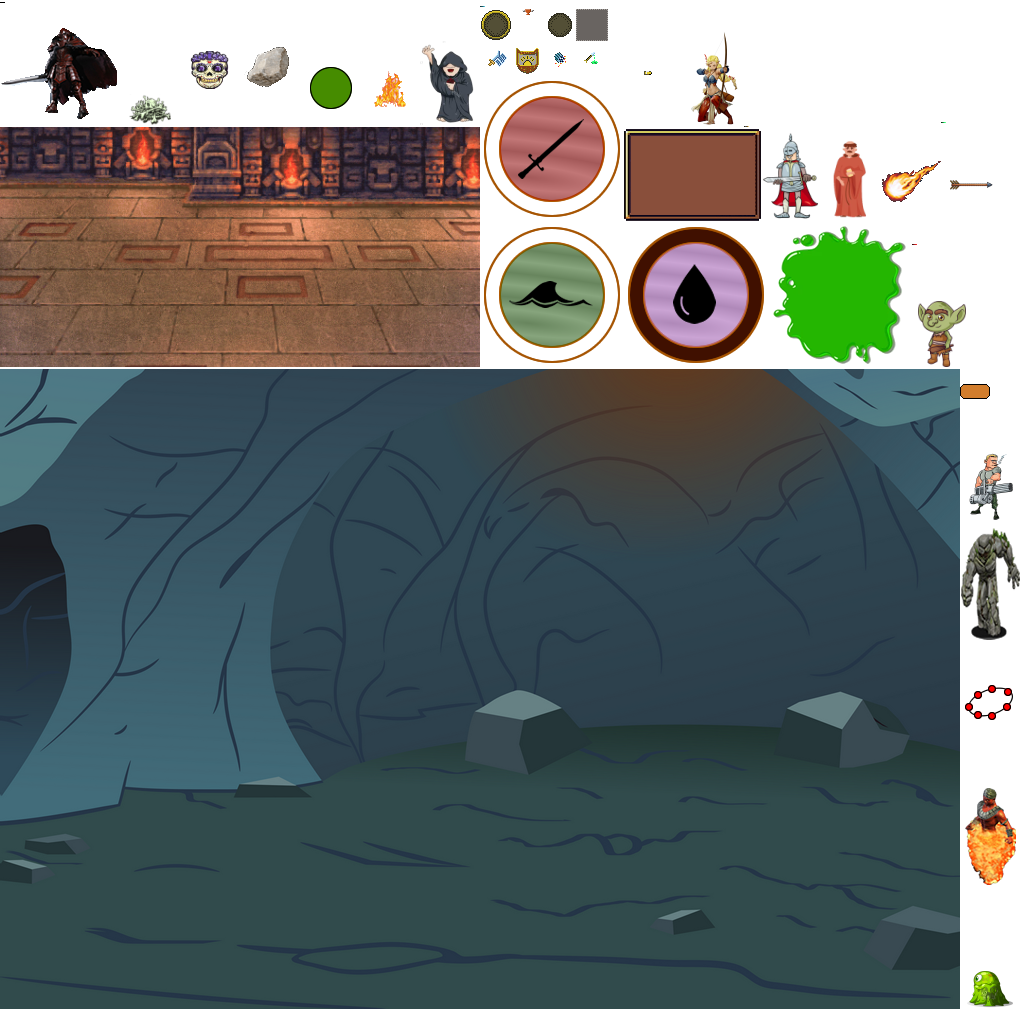
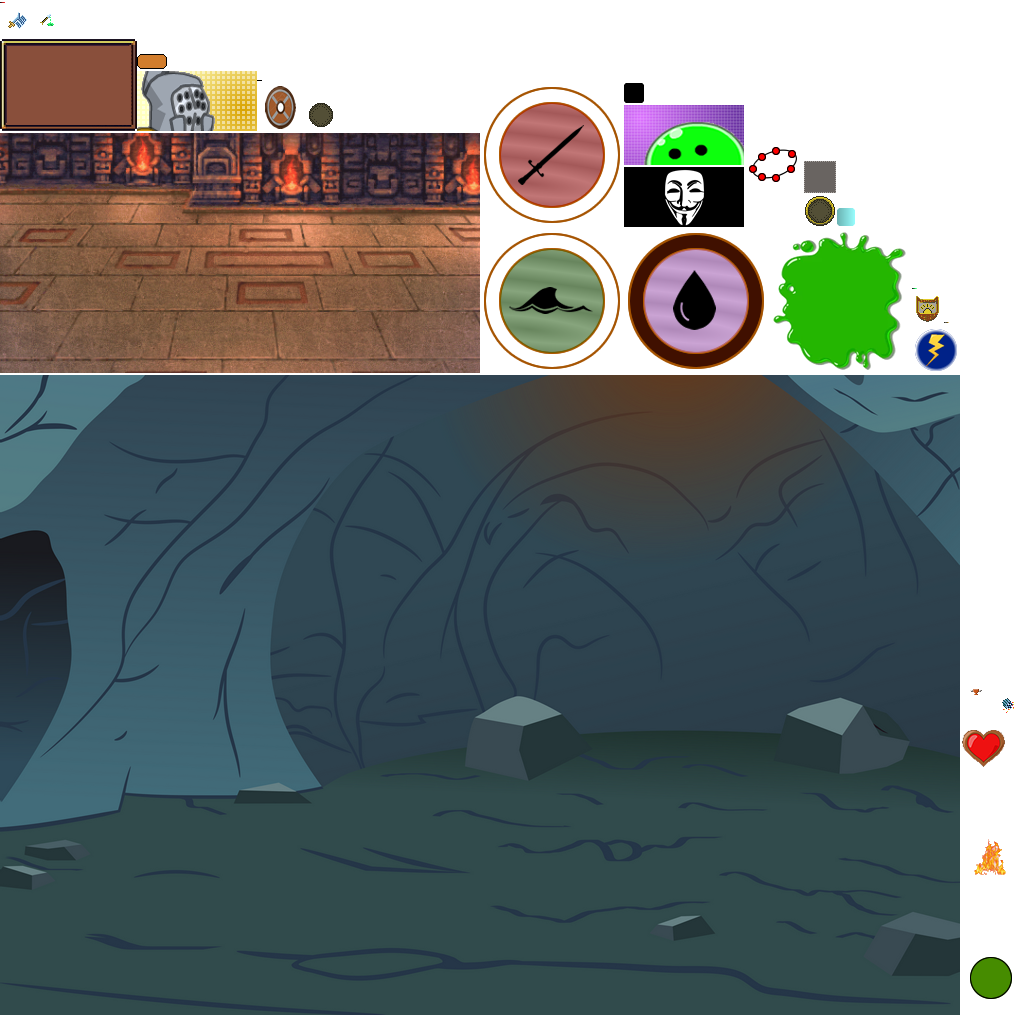
reconfigure prepare dialog

diff --git a/android/core/src/com/game7th/swipe/campaign/prepare/BattlePrepareDialog.kt b/android/core/src/com/game7th/swipe/campaign/prepare/BattlePrepareDialog.kt
@@ -96,7 +96,7 @@ class BattlePrepareDialog(
 
     init {
         w = scale * 336
-        h = scale * 177
+        h = scale * 330f
         width = w
         height = h
         x = (game.width - this.width) / 2f
@@ -121,10 +121,10 @@ class BattlePrepareDialog(
 
         labelDifficulty = Label("Chose difficulty:", Label.LabelStyle(context.font, Color.WHITE)).apply {
             x = 94 * game.scale
-            y = h - 22 * game.scale
+            y = 300f * game.scale
             width = 71 * game.scale
-            height = 12 * game.scale
-            setFontScale(12 * game.scale / 15f)
+            height = 30 * game.scale
+            setFontScale(1f)
         }
         labelDifficulty.touchable = Touchable.disabled
         addActor(labelDifficulty)
@@ -135,7 +135,7 @@ class BattlePrepareDialog(
                 width = 24 * game.scale
                 height = 24 * game.scale
                 x = (168 + i * 26) * game.scale
-                y = h - 28 * game.scale
+                y = 303f * game.scale
             }
             starImages.addActor(image)
             image.onClick {
@@ -151,11 +151,11 @@ class BattlePrepareDialog(
                 null,
                 context.font
         )).apply {
-            label.setFontScale(12f * game.scale / 15)
+            label.setFontScale(1f)
             x = 240 * game.scale
-            y = h - game.scale * 173
+            y = 5f * game.scale
             width = game.scale * 90
-            height = game.scale * 14
+            height = 20 * game.scale
         }
         addActor(buttonStart)
         buttonStart.onClick {
@@ -164,13 +164,13 @@ class BattlePrepareDialog(
 
         personageSquadBrowser = SquadBrowserActor(context, personageAdapter).apply {
             x = 6 * context.scale
-            y = h - 153 * context.scale
+            y = 30 * context.scale
         }
         addActor(personageSquadBrowser)
 
         npcSquadBrowser = SquadBrowserActor(context, npcAdapter).apply {
             x = 170 * context.scale
-            y = h - 153 * context.scale
+            y = 30 * context.scale
         }
         addActor(npcSquadBrowser)
     }

diff --git a/android/core/src/com/game7th/swipe/campaign/prepare/SquadBrowserActor.kt b/android/core/src/com/game7th/swipe/campaign/prepare/SquadBrowserActor.kt
@@ -28,8 +28,8 @@ class SquadBrowserActor(
 
     init {
         background = Image(context.uiAtlas.createPatch("panel_blue")).apply {
-            width = 160 * context.scale
-            height = 105 * context.scale
+            width = 168f * context.scale
+            height = 270f * context.scale
         }
         background.touchable = Touchable.disabled
         addActorAt(0, background)
@@ -37,14 +37,13 @@ class SquadBrowserActor(
         btnPrev = Button(Button.ButtonStyle(TextureRegionDrawable(context.uiAtlas.findRegion("arrowBlue_left")), null, null)).apply {
             width = context.scale * 24
             height = context.scale * 24
-            x = 2 * context.scale
-            y = 40 * context.scale
+            y = 113f * context.scale
         }
         btnNext = Button(Button.ButtonStyle(TextureRegionDrawable(context.uiAtlas.findRegion("arrowBlue_right")), null, null)).apply {
             width = context.scale * 24
             height = context.scale * 24
-            x = 134 * context.scale
-            y = 40 * context.scale
+            x = 144f * context.scale
+            y = 113f * context.scale
         }
         addActor(btnPrev)
         addActor(btnNext)
@@ -67,7 +66,7 @@ class SquadBrowserActor(
             it.remove()
         }
         activeSquad = SquadPreviewActor(context, adapter.getSquad(index)).apply {
-            x = context.scale * 12
+            x = 24 * context.scale
         }
         addActorAt(1, activeSquad)
         activeSquad?.touchable = Touchable.disabled

diff --git a/android/core/src/com/game7th/swipe/campaign/prepare/SmallUnitPreviewActor.kt b/android/core/src/com/game7th/swipe/campaign/prepare/SmallUnitPreviewActor.kt
@@ -16,9 +16,8 @@ class SmallUnitPreviewActor(
         unit: UnitConfig
 ) : Group() {
 
-    private val imagePreview: Image = Image(context.battleAtlas.findRegion(unit.unitType.getSkin())).apply {
-        y = 12 * context.scale
-        width = 30 * context.scale
+    private val imagePreview: Image = Image(context.battleAtlas.findRegion(unit.unitType.getPortrait())).apply {
+        width = 120 * context.scale
         height = 60 * context.scale
     }
     private val levelLabel: Label
@@ -26,11 +25,12 @@ class SmallUnitPreviewActor(
     init {
         addActor(imagePreview)
 
-        levelLabel = Label("LVL ${unit.level}", Label.LabelStyle(context.font, Color.WHITE)).apply {
-            height = 12 * context.scale
-            width = 30 * context.scale
-            setAlignment(Align.center)
-            setFontScale(9f / 15 * context.scale)
+        levelLabel = Label("LVL ${unit.level}", Label.LabelStyle(context.font, Color.BLUE)).apply {
+            height = 16 * context.scale
+            setAlignment(Align.right)
+            setFontScale(0.5f * context.scale)
+            x = 70 * context.scale
+            y = 5 * context.scale
         }
         addActor(levelLabel)
     }

diff --git a/android/core/src/com/game7th/swipe/campaign/prepare/SquadPreviewActor.kt b/android/core/src/com/game7th/swipe/campaign/prepare/SquadPreviewActor.kt
@@ -20,19 +20,20 @@ class SquadPreviewActor(
 
     init {
         addActor(unitsGroup)
+        val size = config.units.size
         config.units.withIndex().forEach { (index, unit) ->
             val unitActor = SmallUnitPreviewActor(context, unit).apply {
-                x = context.scale * 30 * index
+                y = ( 180f - 60f * index ) * context.scale
             }
             unitsGroup.addActor(unitActor)
         }
 
         squadNameLabel = Label(config.name, Label.LabelStyle(context.font, Color.WHITE)).apply {
-            y = 80f * context.scale
-            x = 15f * context.scale
-            width = 90f * context.scale
-            height = 12f * context.scale
-            setFontScale(12f / 15 * context.scale)
+            y = 240f * context.scale
+            x = 0f
+            width = 120f * context.scale
+            height = 30f * context.scale
+            setFontScale(32f / 30f)
             setAlignment(Align.center)
         }
         addActor(squadNameLabel)

diff --git a/android/metagame/src/main/java/com/game7th/metagame/unit/UnitType.kt b/android/metagame/src/main/java/com/game7th/metagame/unit/UnitType.kt
@@ -24,4 +24,10 @@ enum class UnitType {
         BOSS_BLOOD_KNIGHT -> "personage_boss_blood_knight"
         else -> "personage_dead"
     }
+
+    fun getPortrait() : String = when (this) {
+        GLADIATOR -> "portrait_gladiator"
+        GREEN_SLIME -> "portrait_slime"
+        else -> "portrait_unknown"
+    }
 }
